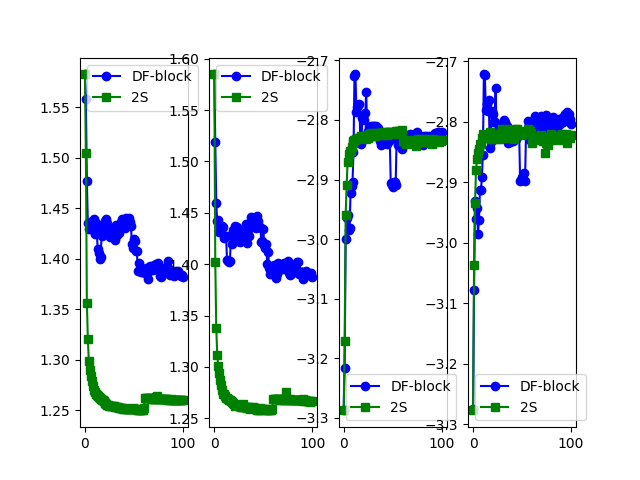
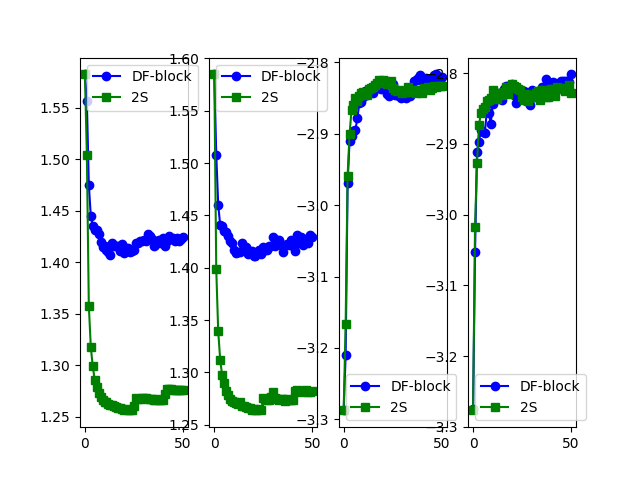
changing loss back to KL divergence

diff --git a/blockQP.py b/blockQP.py
@@ -85,13 +85,13 @@ def learnEdgeProbs_simple(train_data, validate_data, test_data, f_save, f_time, 
                 biased_probs_pred = generate_EdgeProbs_from_Attractiveness(G, coverage_prob,  phi_pred, omega=omega)
                 
                 ################################### Compute loss
-                loss = torch.norm((unbiased_probs_true - unbiased_probs_pred) * torch.Tensor(nx.adjacency_matrix(G).toarray()))
-                # log_prob_pred = torch.zeros(1)
-                # for path in path_list:
-                #     for e in path: 
-                #         log_prob_pred -= torch.log(biased_probs_pred[e[0]][e[1]])
-                # log_prob_pred /= len(path_list)
-                # loss = log_prob_pred - log_prob
+                # loss = torch.norm((unbiased_probs_true - unbiased_probs_pred) * torch.Tensor(nx.adjacency_matrix(G).toarray()))
+                log_prob_pred = torch.zeros(1)
+                for path in path_list:
+                    for e in path: 
+                        log_prob_pred -= torch.log(biased_probs_pred[e[0]][e[1]])
+                log_prob_pred /= len(path_list)
+                loss = log_prob_pred - log_prob
 
                 # COMPUTE DEFENDER UTILITY 
                 single_data = dataset[iter_n]
